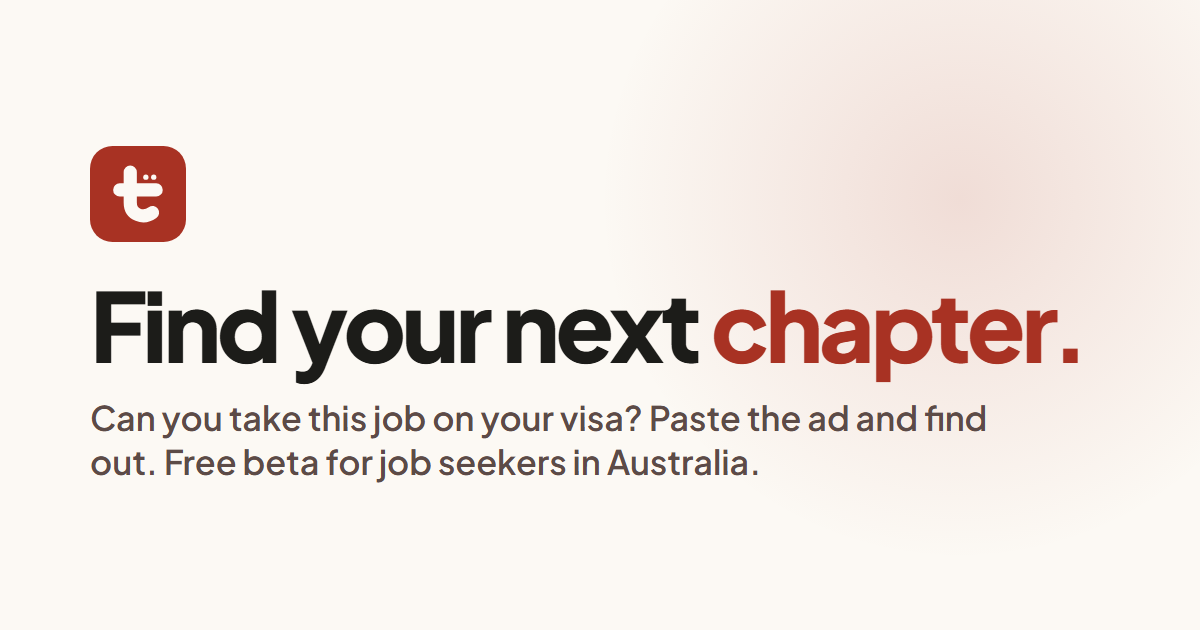
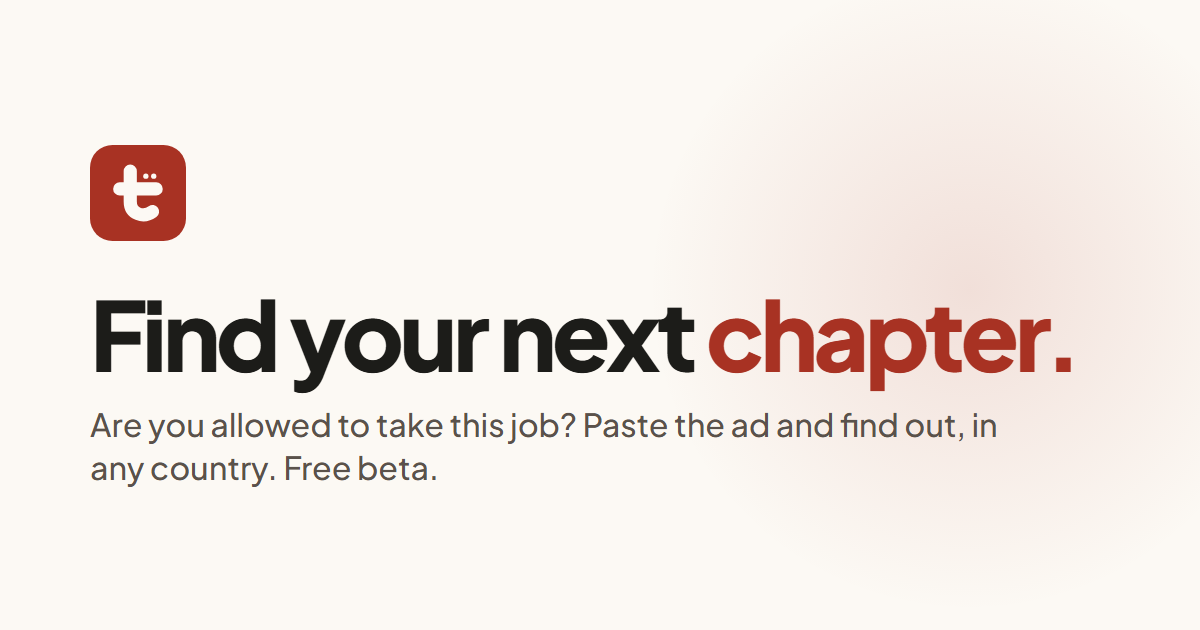
Position the landing page for job seekers in any country
Work-rights demo now covers the right to work, needing sponsorship and an
Australian 491 visa against UK, Canadian and Australian ads. Hero, facts,
footer, meta tags and share image no longer say Australia-only.

Changed region(s): [[0.0617, 0.4524, 0.8942, 0.7841], [0.0617, 0.573, 0.0925, 0.6032]]

diff --git a/index.html b/index.html
@@ -4,11 +4,11 @@
 <meta charset="utf-8">
 <meta name="viewport" content="width=device-width, initial-scale=1, viewport-fit=cover">
 <title>Trozi · Find your next chapter</title>
-<meta name="description" content="Paste any job ad. Trozi tells you if your visa lets you take it, how well you fit, and drafts your CV, cover letter and application answers, all on your phone. Free beta for job seekers in Australia.">
+<meta name="description" content="Paste any job ad. Trozi tells you if your right to work lets you take it, how well you fit, and drafts your CV, cover letter and application answers, all on your phone. Free beta, wherever you're applying.">
 <meta name="theme-color" content="#FCF9F4">
 <meta property="og:type" content="website">
 <meta property="og:title" content="Trozi · Find your next chapter">
-<meta property="og:description" content="Can you take this job on your visa? Paste the ad and find out, then get a CV and cover letter built from your real experience. Free beta.">
+<meta property="og:description" content="Are you allowed to take this job? Paste the ad and find out, then get a CV and cover letter built from your real experience. Free beta.">
 <meta property="og:image" content="og-image.png">
 <meta name="twitter:card" content="summary_large_image">
 <link rel="icon" type="image/svg+xml" href="trozi-icon-v2.svg">
@@ -157,6 +157,9 @@
   .result .verdict .v-title { font-size: 18px; }
   .result .verdict p { font-size: 15px; }
   .result small { display: block; color: var(--muted); font-size: 12.5px; margin-top: 12px; }
+  .ad { margin: 0 0 12px; font-size: 14px; color: var(--muted); }
+  .ad b { display: block; color: var(--ink); font-size: 15.5px; margin-bottom: 2px; }
+  .ad span { font-style: italic; }
   .pop { animation: pop 0.35s var(--ease); }
   @keyframes pop { from { transform: scale(0.97); opacity: 0.4; } to { transform: none; opacity: 1; } }
 
@@ -235,9 +238,9 @@
   <section class="hero" aria-labelledby="hero-title">
     <div class="wrap">
       <div>
-        <span class="eyebrow">For job seekers in Australia</span>
+        <span class="eyebrow">For people building a career in a new country</span>
         <h1 id="hero-title">Find your next <span class="accent">chapter.</span></h1>
-        <p class="lede">Paste any job ad. Trozi tells you <strong>if your visa lets you take it</strong>, how well you fit, and drafts your CV, cover letter and application answers from your real experience. All on your phone, between shifts.</p>
+        <p class="lede">Paste any job ad. Trozi tells you <strong>if your right to work lets you take it</strong>, how well you fit, and drafts your CV, cover letter and application answers from your real experience. All on your phone, between shifts.</p>
         <form class="beta" data-beta id="join" novalidate>
           <label class="sr-only" for="email-1">Email address</label>
           <div class="row">
@@ -263,10 +266,10 @@
               <svg class="icon" viewBox="0 0 1024 1024"><rect width="1024" height="1024" rx="240" fill="#A83223"/><g transform="translate(235 192) scale(2.16)"><path d="M90 40V190C90 253 155 272 200 240M38 128H218" fill="none" stroke="#FCF9F4" stroke-width="65" stroke-linecap="round" stroke-linejoin="round"/><circle cx="167" cy="65" r="13" fill="#FCF9F4"/><circle cx="206" cy="65" r="13" fill="#FCF9F4"/></g></svg>
               <div><b>Trozi</b><small>Your job check</small></div>
             </div>
-            <div class="card role">Territory Freight Co<b>Logistics Coordinator</b>Darwin NT</div>
+            <div class="card role">Northline Health<b>Project Manager</b>Toronto, Canada</div>
             <div class="verdict v-ok">
               <div class="v-title">✓ You can take this role</div>
-              <p>The role is in Darwin, a designated regional area, so your 491 visa allows it.</p>
+              <p>You need sponsorship to work in Canada, and this ad offers it.</p>
             </div>
             <div class="card score">
               <svg class="ring" viewBox="0 0 58 58"><circle cx="29" cy="29" r="24" fill="none" stroke="#E5DDD2" stroke-width="6"/><circle cx="29" cy="29" r="24" fill="none" stroke="#2C694E" stroke-width="6" stroke-linecap="round" stroke-dasharray="150.8" stroke-dashoffset="12" transform="rotate(-90 29 29)"/><text x="29" y="34" text-anchor="middle" font-family="Plus Jakarta Sans, sans-serif" font-weight="800" font-size="15" fill="#1C1C19">4.6</text></svg>
@@ -285,29 +288,27 @@
       <div class="checker">
         <span class="eyebrow">Try it</span>
         <h2 id="check-title">Can you take this job?</h2>
-        <p class="sub">On a regional visa, the first question isn't whether you fit. It's whether you're allowed. Pick yours and a job's location.</p>
+        <p class="sub">Wherever you're applying, the first question isn't whether you fit. It's whether you're allowed to take the job. Try a few combinations.</p>
         <div class="checker-grid">
           <div>
-            <p class="q" id="q-visa">Your work rights</p>
+            <p class="q" id="q-visa">Your situation</p>
             <div class="chips" role="radiogroup" aria-labelledby="q-visa">
-              <label class="chip"><input type="radio" name="visa" value="491" checked><span>491 regional</span></label>
-              <label class="chip"><input type="radio" name="visa" value="494"><span>494 sponsored</span></label>
-              <label class="chip"><input type="radio" name="visa" value="citizen"><span>Citizen or PR</span></label>
+              <label class="chip"><input type="radio" name="visa" value="rights" checked><span>I have the right to work there</span></label>
+              <label class="chip"><input type="radio" name="visa" value="sponsor"><span>I need visa sponsorship</span></label>
+              <label class="chip"><input type="radio" name="visa" value="491"><span>Australian 491 regional visa</span></label>
             </div>
-            <p class="q" id="q-city" style="margin-top:22px">Where's the job?</p>
+            <p class="q" id="q-city" style="margin-top:22px">The job ad</p>
             <div class="chips" role="radiogroup" aria-labelledby="q-city">
-              <label class="chip"><input type="radio" name="city" value="Darwin" checked><span>Darwin</span></label>
-              <label class="chip"><input type="radio" name="city" value="Perth"><span>Perth</span></label>
-              <label class="chip"><input type="radio" name="city" value="Adelaide"><span>Adelaide</span></label>
-              <label class="chip"><input type="radio" name="city" value="Cairns"><span>Cairns</span></label>
-              <label class="chip"><input type="radio" name="city" value="Sydney"><span>Sydney</span></label>
-              <label class="chip"><input type="radio" name="city" value="Melbourne"><span>Melbourne</span></label>
-              <label class="chip"><input type="radio" name="city" value="Brisbane"><span>Brisbane</span></label>
+              <label class="chip"><input type="radio" name="city" value="london" checked><span>London, UK</span></label>
+              <label class="chip"><input type="radio" name="city" value="toronto"><span>Toronto, Canada</span></label>
+              <label class="chip"><input type="radio" name="city" value="darwin"><span>Darwin, Australia</span></label>
+              <label class="chip"><input type="radio" name="city" value="sydney"><span>Sydney, Australia</span></label>
             </div>
           </div>
           <div class="result" aria-live="polite">
+            <p class="ad" id="ad"></p>
             <div class="verdict" id="verdict"></div>
-            <small>A simplified example. In the app, every job ad is checked in full, including citizenship, clearance and "no sponsorship" wording. Guidance only, not legal advice.</small>
+            <small>Simplified examples. In the app, every ad is checked against your own work rights, in any country, with Australia's regional visa rules built in. Guidance only, not legal advice.</small>
           </div>
         </div>
       </div>
@@ -330,7 +331,7 @@
           <h3>Know where you stand</h3>
           <p>In about a minute:</p>
           <ul>
-            <li>Whether your visa allows the role</li>
+            <li>Whether your work rights or visa allow the role</li>
             <li>A fit score out of 5, with where you match and where you fall short</li>
             <li>What to change before you apply</li>
           </ul>
@@ -357,7 +358,7 @@
         <p class="sub" style="margin-top:16px">Every line comes from your real experience. If an answer claims more than your CV says, Trozi points it out so you're never caught off guard in an interview.</p>
       </div>
       <div class="answer" aria-label="Example drafted answer with a flagged sentence">
-        <div class="qline">Selection criterion 1</div>
+        <div class="qline">Application question 1</div>
         <p>I coordinate 25 drivers across 3 depots, including runs to remote communities. By rebuilding our driver rosters in Excel around delivery windows, I cut dispatch delays by 30%. <mark>This improved our on-time delivery rate.</mark></p>
         <div class="flag"><span aria-hidden="true">⚠</span><span><b>Check this sentence:</b> "improved" isn't in your CV. Keep it only if it's true.</span></div>
       </div>
@@ -370,7 +371,7 @@
       <div class="facts">
         <div class="fact"><h3>Built for your phone</h3><p>Check a job on your break, on the bus, between shifts. No laptop needed.</p></div>
         <div class="fact"><h3>Your data stays yours</h3><p>No ads, no tracking. The AI we use doesn't learn from your CV. Delete any job, or your account, at any time.</p></div>
-        <div class="fact"><h3>Made in Darwin</h3><p>Built in Darwin, for job seekers in regional Australia and the visa questions that come with it.</p></div>
+        <div class="fact"><h3>Works across borders</h3><p>Set your work rights for any country. Built in Darwin, Australia, so it knows Australia's regional visa rules inside out.</p></div>
       </div>
     </div>
   </section>
@@ -408,7 +409,7 @@
       <a href="#join">Join the beta</a>
     </div>
     <p style="margin:0">Trozi, from the Italian <i>trovare</i>, to find. Visa checks are guidance only, not legal advice; confirm anything unusual with a registered migration agent.</p>
-    <p style="margin:0">© 2026 Trozi · Darwin, Northern Territory</p>
+    <p style="margin:0">© 2026 Trozi · Made in Darwin, Australia</p>
   </div>
 </footer>
 
@@ -419,28 +420,42 @@
   window.addEventListener("scroll", onScroll, { passive: true });
   onScroll();
 
-  // Visa demo: the same rule the app applies to regional visas (designated
-  // regional areas are everywhere except greater Sydney, Melbourne and
-  // Brisbane), simplified for a demo.
-  const METRO = new Set(["Sydney", "Melbourne", "Brisbane"]);
+  // Work-rights demo: the same kinds of verdict the app gives. Sponsorship
+  // wording decides it anywhere; Australia's regional rule (designated
+  // regional areas exclude greater Sydney, Melbourne and Brisbane) adds the
+  // 491 case. Simplified for a demo.
+  const ADS = {
+    london: { role: "Data Analyst · London, UK", quote: "Must have the right to work in the UK. We are unable to offer visa sponsorship." },
+    toronto: { role: "Project Manager · Toronto, Canada", quote: "Visa sponsorship available for the right candidate." },
+    darwin: { role: "Logistics Coordinator · Darwin, Australia", quote: "Must have the right to work in Australia." },
+    sydney: { role: "Registered Nurse · Sydney, Australia", quote: "Must have the right to work in Australia." },
+  };
+  const OK = ["v-ok", "✓ You can take this role"], NO = ["v-no", "✕ Not allowed on your work rights"], CHECK = ["v-check", "! Check before you apply"];
+  const VERDICTS = {
+    rights: { london: [...OK, "You have the right to work where this role is based."], toronto: [...OK, "You have the right to work where this role is based."], darwin: [...OK, "You have the right to work where this role is based."], sydney: [...OK, "You have the right to work where this role is based."] },
+    sponsor: {
+      london: [...NO, "You need sponsorship, and this ad says it can't offer it."],
+      toronto: [...OK, "The ad offers visa sponsorship, which is what you need."],
+      darwin: [...CHECK, "The ad asks for Australian work rights and doesn't mention sponsorship. Ask the employer before you spend time applying."],
+      sydney: [...CHECK, "The ad asks for Australian work rights and doesn't mention sponsorship. Ask the employer before you spend time applying."],
+    },
+    491: {
+      london: [...NO, "A 491 gives you work rights in Australia only. This role needs the right to work in the UK, and the ad rules out sponsorship."],
+      toronto: [...CHECK, "A 491 doesn't cover Canada, but this ad offers sponsorship. Ask about a Canadian work permit."],
+      darwin: [...OK, "The role is in Darwin, a designated regional area, so your 491 visa allows it."],
+      sydney: [...NO, "The role is in Sydney. A 491 needs you to live and work in a designated regional area, and greater Sydney isn't one."],
+    },
+  };
   const verdictEl = document.getElementById("verdict");
+  const adEl = document.getElementById("ad");
   function renderVerdict() {
     const visa = document.querySelector('input[name="visa"]:checked').value;
     const city = document.querySelector('input[name="city"]:checked').value;
-    let cls, title, text;
-    if (visa === "citizen") {
-      cls = "v-ok"; title = "✓ You can take this role";
-      text = `As a citizen or permanent resident you can work anywhere in Australia, including ${city}.`;
-    } else if (METRO.has(city)) {
-      cls = "v-no"; title = "✕ Not allowed on your visa";
-      text = `This role is in ${city}. A ${visa} visa needs you to live and work in a designated regional area, and greater ${city} isn't one.`;
-    } else if (visa === "494") {
-      cls = "v-check"; title = "! Check your visa conditions";
-      text = `${city} is regional, so the location works. A 494 is tied to the employer who sponsored you, so a new employer would normally need to nominate you.`;
-    } else {
-      cls = "v-ok"; title = "✓ You can take this role";
-      text = `The role is in ${city}, a designated regional area, so your 491 visa allows it.`;
-    }
+    const [cls, title, text] = VERDICTS[visa][city];
+    adEl.innerHTML = "";
+    const role = document.createElement("b"); role.textContent = ADS[city].role;
+    const quote = document.createElement("span"); quote.textContent = `“${ADS[city].quote}”`;
+    adEl.append(role, quote);
     verdictEl.className = `verdict ${cls}`;
     verdictEl.innerHTML = "";
     const t = document.createElement("div"); t.className = "v-title"; t.textContent = title;
